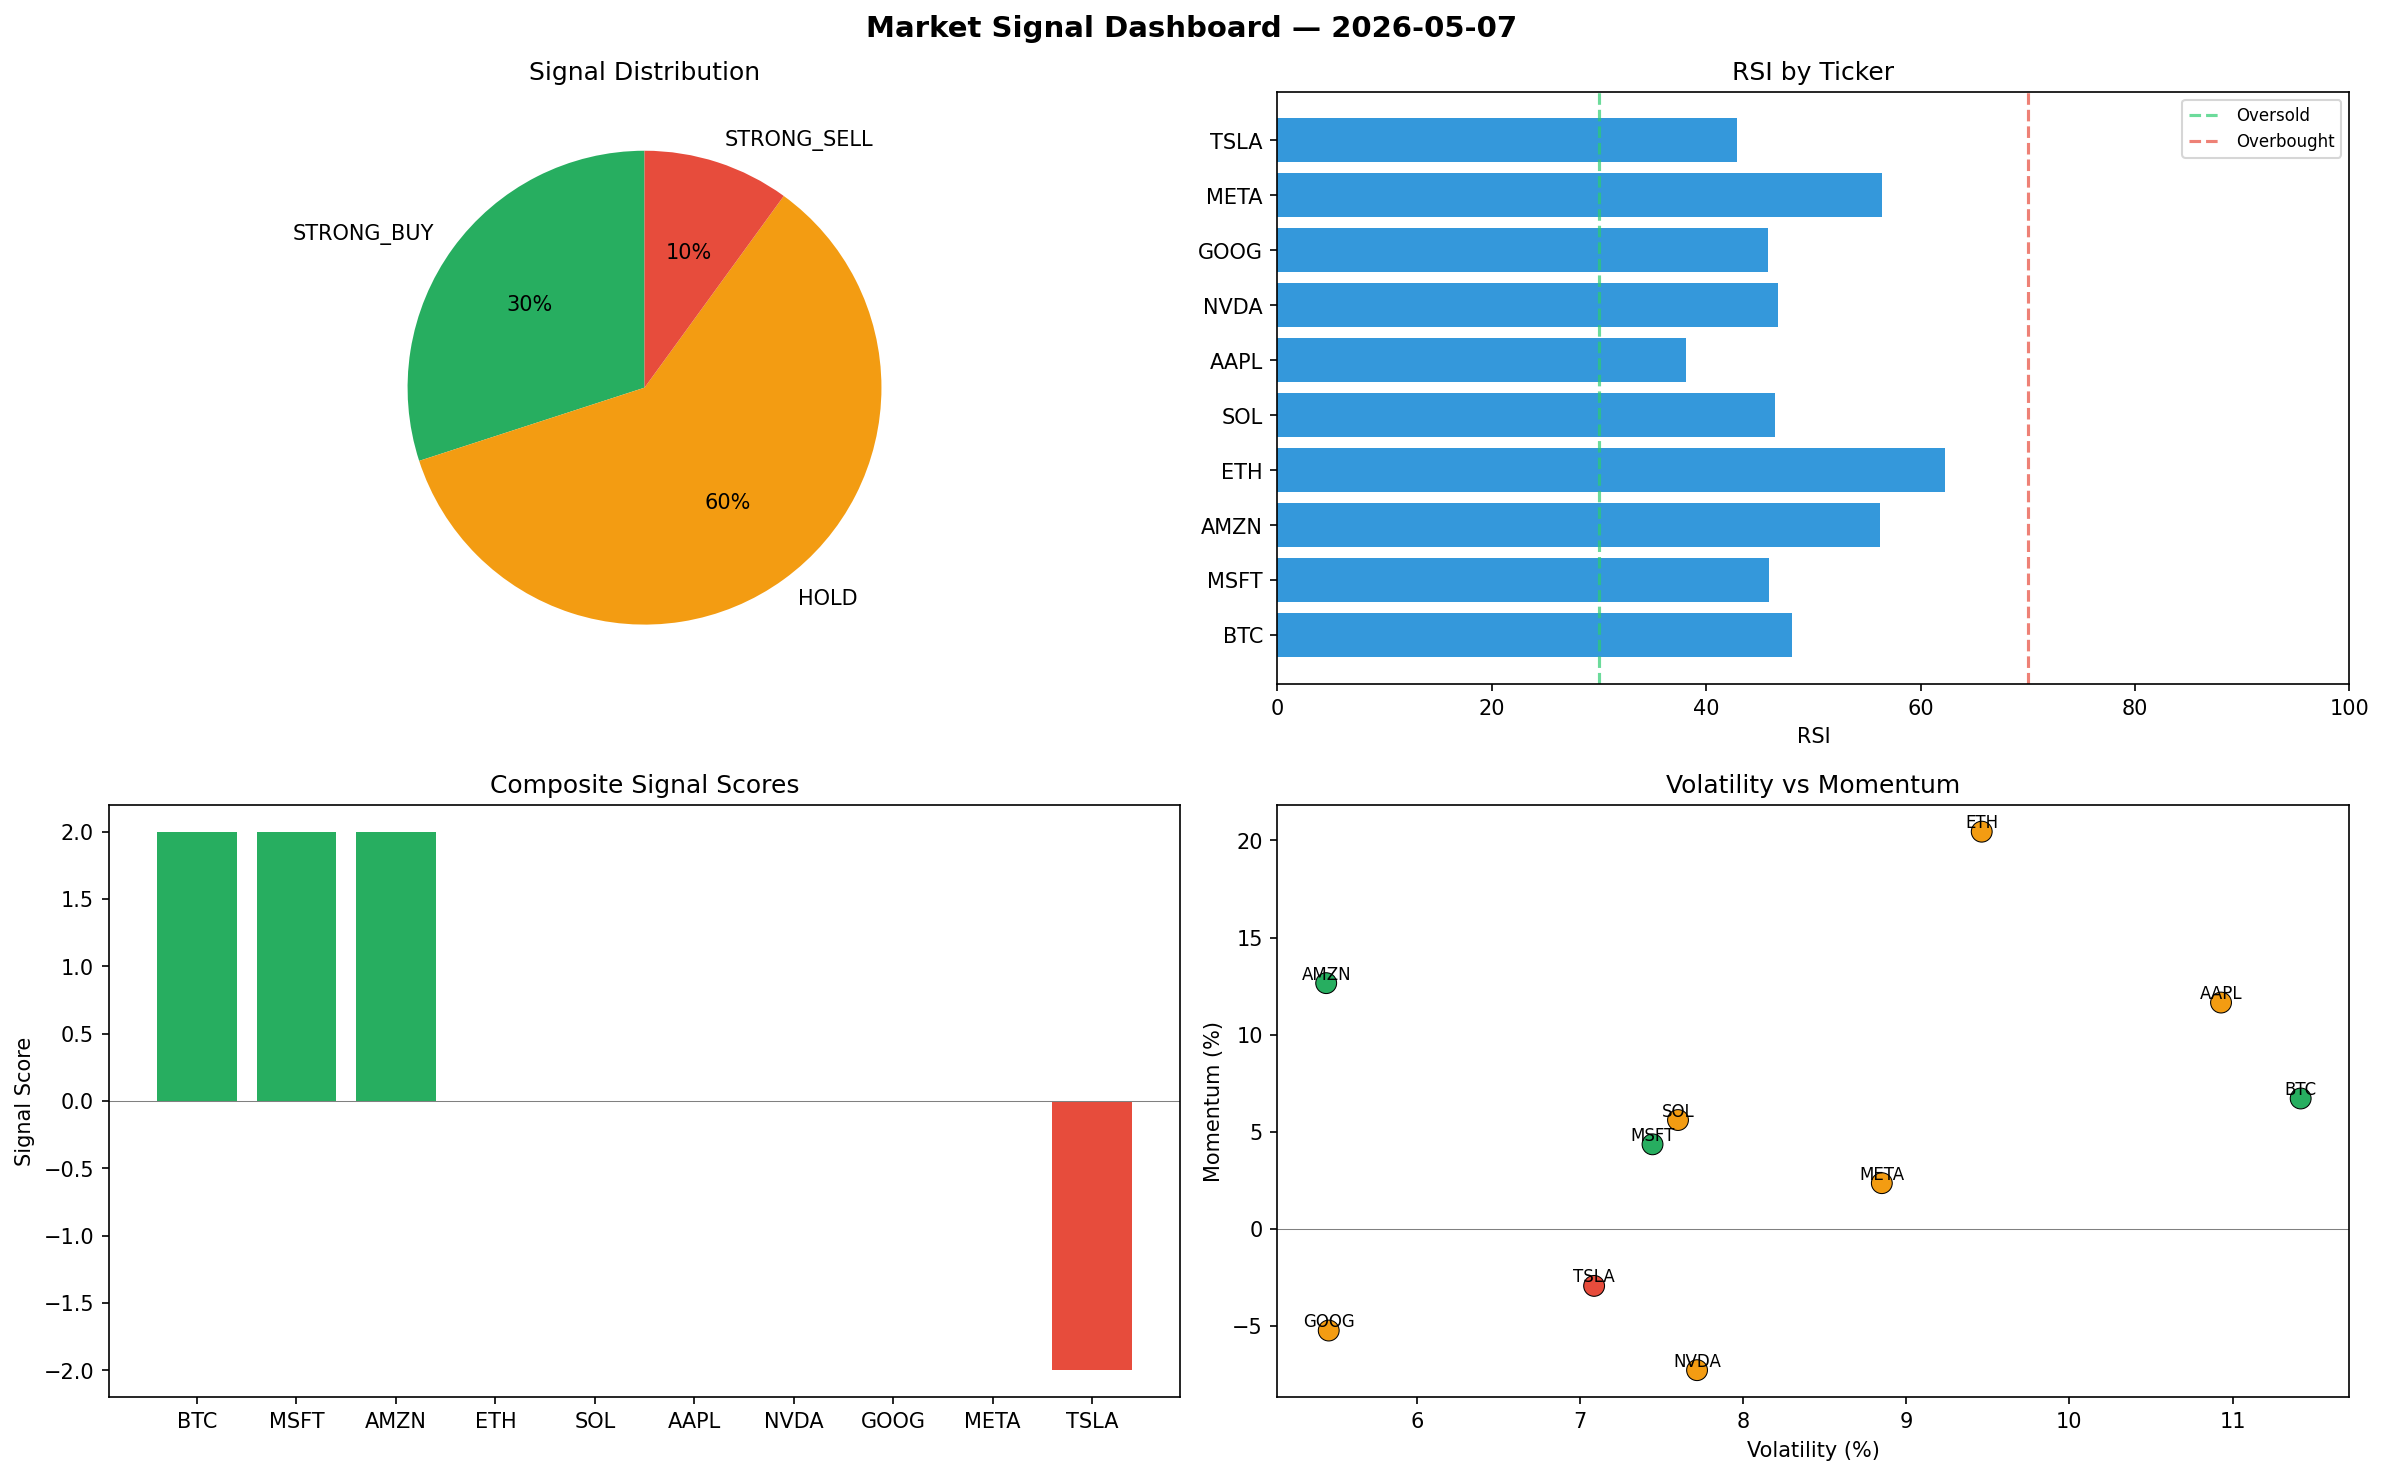
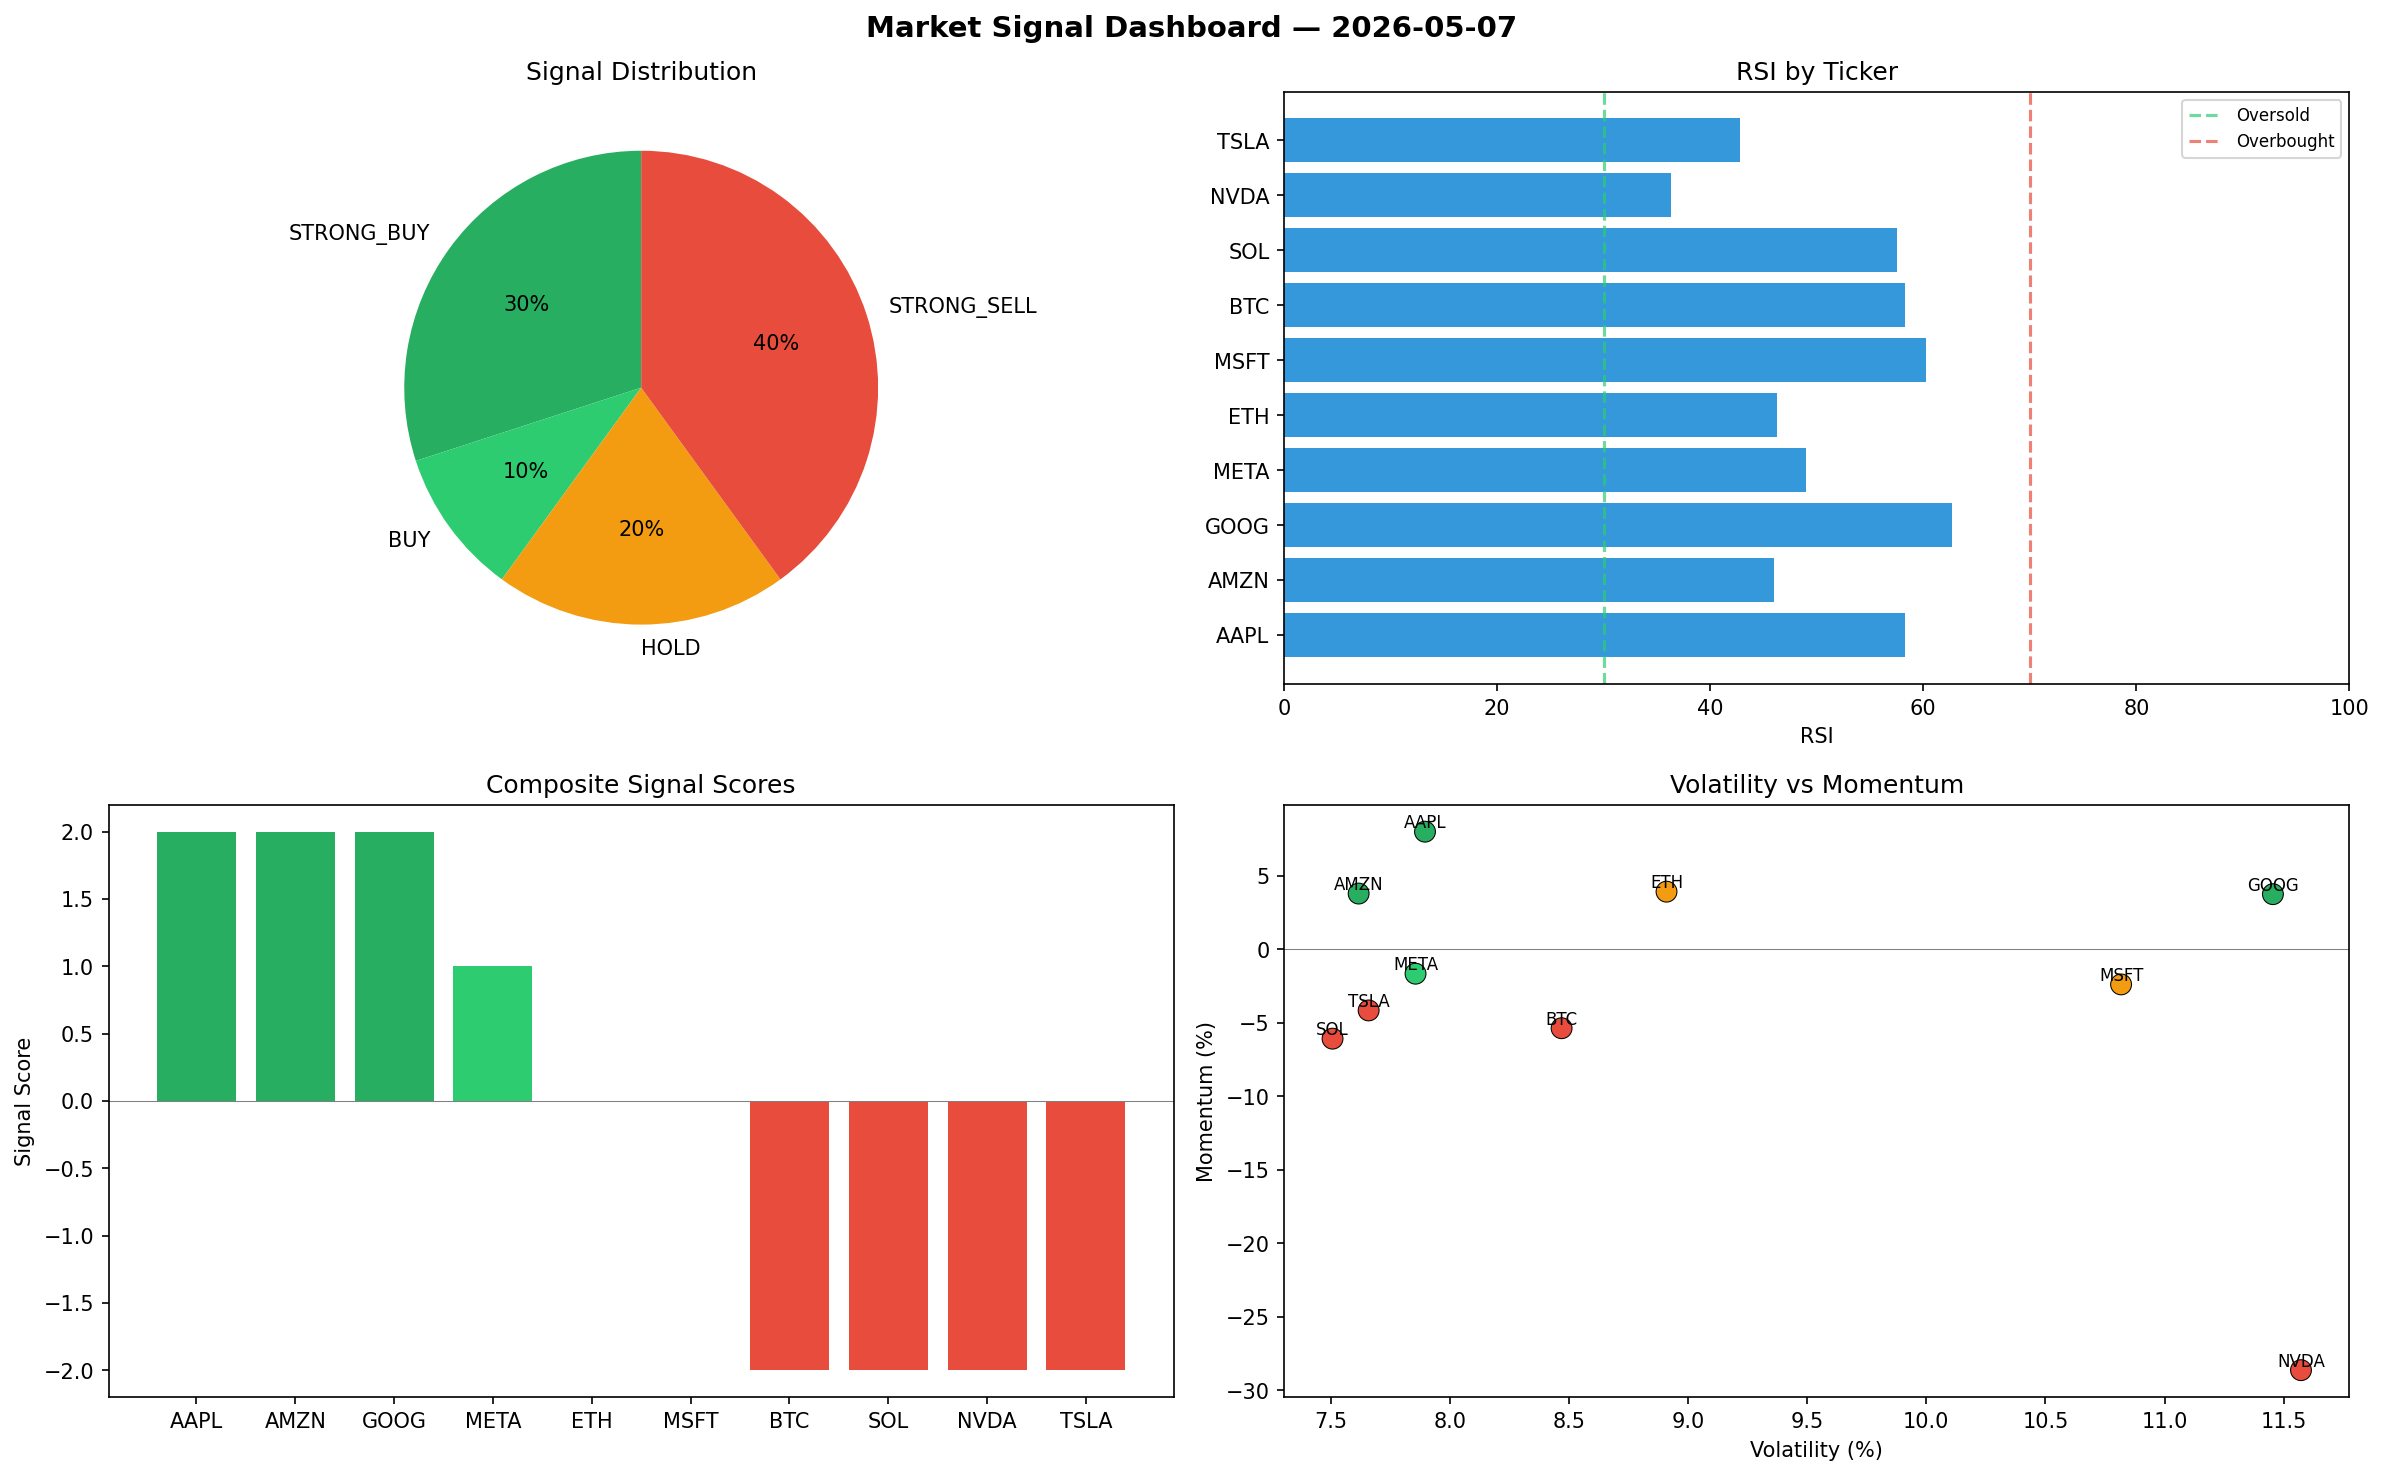
automated-bots: market signals 2026-05-07T10:38

diff --git a/logs/2026-05-07.md b/logs/2026-05-07.md
@@ -1,6 +1,6 @@
 # Market Signal Report — 2026-05-07
 
-**Run ID:** `2fd0b856aa` | **Buy:** 3 | **Sell:** 1 | **Hold:** 6
+**Run ID:** `6df53d95b7` | **Buy:** 4 | **Sell:** 4 | **Hold:** 2
 
 ![Dashboard](2026-05-07_dashboard.png)
 
@@ -8,28 +8,28 @@
 
 | Ticker | Price | Signal | Score | RSI | Momentum | Confidence |
 |--------|-------|--------|-------|-----|----------|------------|
-| BTC | $1274.13 | **STRONG_BUY** | 2 | 48.02 | 0.0671 | 0.5 |
-| MSFT | $3712.34 | **STRONG_BUY** | 2 | 45.89 | 0.0435 | 0.5 |
-| AMZN | $133.62 | **STRONG_BUY** | 2 | 56.23 | 0.1265 | 0.5 |
-| ETH | $5617.78 | **HOLD** | 0 | 62.25 | 0.2045 | 0.0 |
-| SOL | $4443.14 | **HOLD** | 0 | 46.44 | 0.056 | 0.0 |
-| AAPL | $2859.37 | **HOLD** | 0 | 38.13 | 0.1165 | 0.0 |
-| NVDA | $1062.55 | **HOLD** | 0 | 46.67 | -0.0728 | 0.0 |
-| GOOG | $1373.21 | **HOLD** | 0 | 45.8 | -0.0524 | 0.0 |
-| META | $1774.59 | **HOLD** | 0 | 56.38 | 0.0235 | 0.0 |
-| TSLA | $3221.52 | **STRONG_SELL** | -2 | 42.9 | -0.0294 | 0.5 |
+| AAPL | $2752.47 | **STRONG_BUY** | 2 | 58.25 | 0.08 | 0.5 |
+| AMZN | $2650.9 | **STRONG_BUY** | 2 | 45.98 | 0.0379 | 0.5 |
+| GOOG | $263.91 | **STRONG_BUY** | 2 | 62.7 | 0.0375 | 0.5 |
+| META | $535.18 | **BUY** | 1 | 49.0 | -0.0166 | 0.25 |
+| ETH | $1452.77 | **HOLD** | 0 | 46.25 | 0.0392 | 0.0 |
+| MSFT | $2315.0 | **HOLD** | 0 | 60.21 | -0.0239 | 0.0 |
+| BTC | $1547.28 | **STRONG_SELL** | -2 | 58.25 | -0.0537 | 0.5 |
+| SOL | $3026.32 | **STRONG_SELL** | -2 | 57.5 | -0.0608 | 0.5 |
+| NVDA | $1066.56 | **STRONG_SELL** | -2 | 36.32 | -0.2863 | 0.5 |
+| TSLA | $3948.84 | **STRONG_SELL** | -2 | 42.8 | -0.0416 | 0.5 |
 
 ## Delta vs Yesterday
 
 | Ticker | Today | Yesterday | Price Change | Signal Changed |
 |--------|-------|-----------|-------------|----------------|
-| BTC | STRONG_BUY | STRONG_SELL | 📉 -60.63% | ⚠ YES |
-| MSFT | STRONG_BUY | STRONG_SELL | 📈 0.86% | ⚠ YES |
-| AMZN | STRONG_BUY | STRONG_BUY | 📉 -96.81% | — |
-| ETH | HOLD | STRONG_SELL | 📈 15.3% | ⚠ YES |
-| SOL | HOLD | STRONG_BUY | 📉 -11.48% | ⚠ YES |
-| AAPL | HOLD | HOLD | 📈 50.02% | — |
-| NVDA | HOLD | HOLD | 📉 -64.8% | — |
-| GOOG | HOLD | BUY | 📈 499.03% | ⚠ YES |
-| META | HOLD | HOLD | 📈 492.3% | — |
-| TSLA | STRONG_SELL | BUY | 📈 8.35% | ⚠ YES |
+| AAPL | STRONG_BUY | HOLD | 📈 44.41% | ⚠ YES |
+| AMZN | STRONG_BUY | STRONG_BUY | 📉 -36.74% | — |
+| GOOG | STRONG_BUY | BUY | 📈 15.12% | ⚠ YES |
+| META | BUY | HOLD | 📈 78.63% | ⚠ YES |
+| ETH | HOLD | STRONG_SELL | 📉 -70.18% | ⚠ YES |
+| MSFT | HOLD | STRONG_SELL | 📉 -37.1% | ⚠ YES |
+| BTC | STRONG_SELL | STRONG_SELL | 📉 -52.19% | — |
+| SOL | STRONG_SELL | STRONG_BUY | 📉 -39.71% | ⚠ YES |
+| NVDA | STRONG_SELL | HOLD | 📉 -64.67% | ⚠ YES |
+| TSLA | STRONG_SELL | BUY | 📈 32.81% | ⚠ YES |
